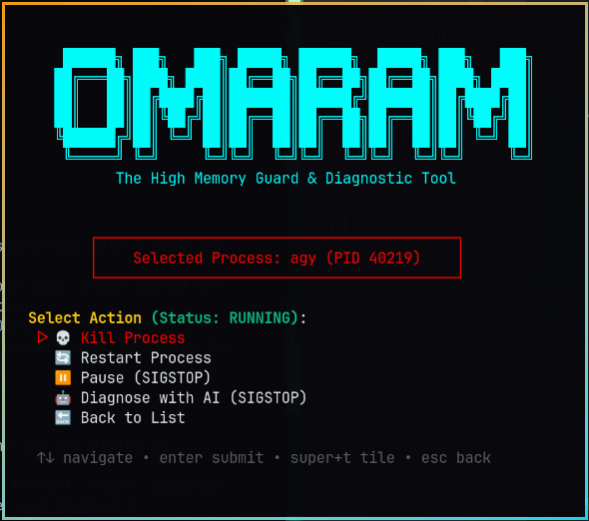
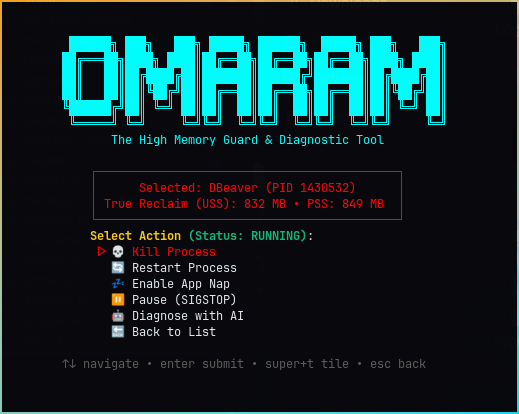
docs(assets): update screenshots to v3 UI and add AI diagnostics showcase
- Update assets/preview.png and preview.png with latest monitor view (omaram-guard3).
- Update assets/menu.png with latest process actions menu (omaram-menu3).
- Add assets/ai.png showcasing dedicated AI Diagnostic Mode submenu (omaram-ai).
- Update README.md showcase layout to display all three views side-by-side.

diff --git a/README.md b/README.md
@@ -1,8 +1,9 @@
 # OMARAM Guard
 
 <p align="center">
-  <img src="assets/preview.png" width="49%" alt="OMARAM Guard Monitor" />
-  <img src="assets/menu.png" width="49%" alt="OMARAM Guard Process Actions" />
+  <img src="assets/preview.png" width="32.5%" alt="OMARAM Guard Monitor" />
+  <img src="assets/menu.png" width="32.5%" alt="OMARAM Guard Process Actions" />
+  <img src="assets/ai.png" width="32.5%" alt="OMARAM Guard AI Diagnostics" />
 </p>
 
 A native Omarchy shell widget that monitors system memory, dispatches proactive desktop alerts, and provides an interactive terminal UI for pausing, inspecting, profiling with differential snapshots, diagnosing with AI, or killing memory-heavy processes.
